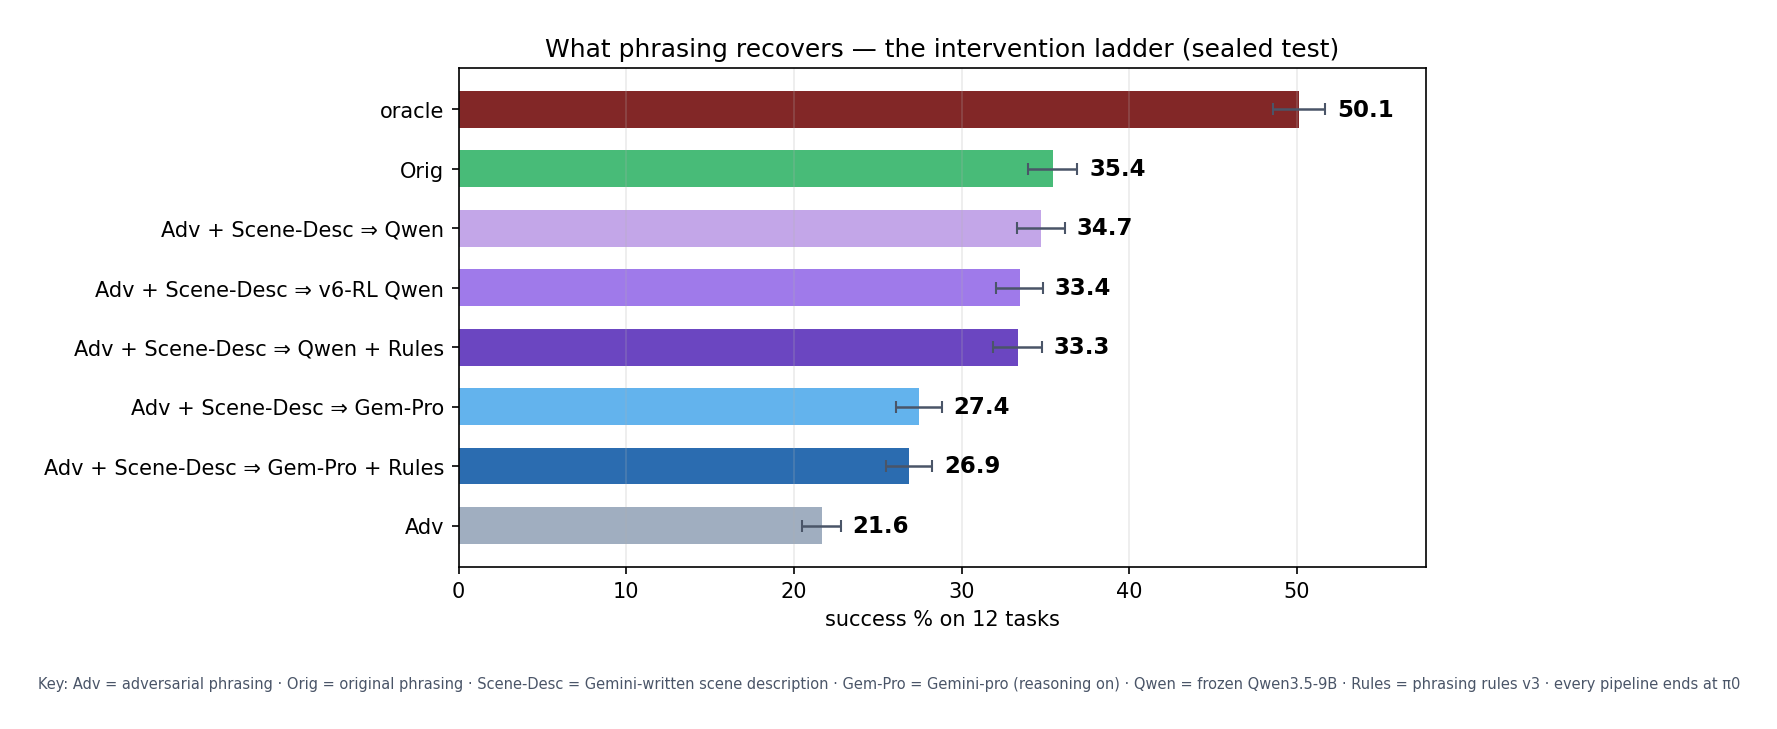
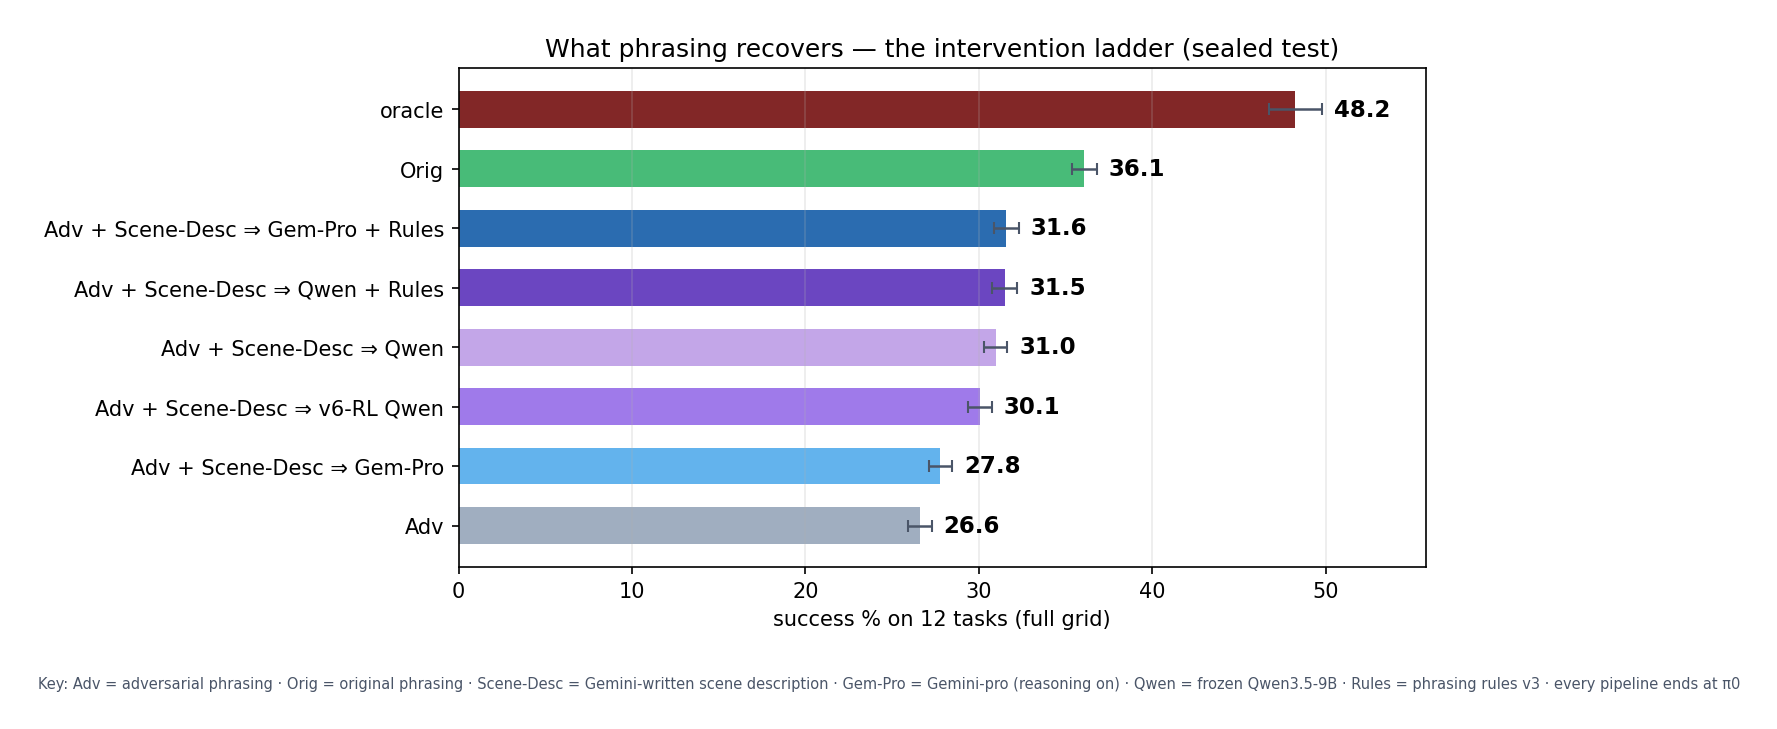
oracle full-grid 48.2 (prediction confirmed); determinism doctrine revised (within-pod exact, cross-pod drift); charts full-grid

diff --git a/scripts/make_phrasing_ladder.py b/scripts/make_phrasing_ladder.py
@@ -20,13 +20,15 @@ matplotlib.use("Agg")
 import matplotlib.pyplot as plt
 import pandas as pd
 
-HELD = set(range(18, 24))
+HELD = set(range(24))  # full grid — oracle now has a full-grid leg
 
+op = [f for f in glob.glob("results/sealed/*_x12.parquet") if "oracle_confirmed" in f]
 conf = sorted(glob.glob("results/search/sealedsearch_*_confirm_results.json"))
 tasks = [json.load(open(f))["task"] for f in conf]
-oracle = {json.load(open(f))["task"]:
+oracle = ({t: v for t, v in (pd.read_parquet(op[0]).groupby("task").success.mean() * 100).items()}
+          if op else {json.load(open(f))["task"]:
           max(json.load(open(f))["scoreboard"], key=lambda e: e["success_pct"])["success_pct"]
-          for f in conf}
+          for f in conf})
 
 legs = pd.concat([pd.read_parquet(f) for f in sorted(glob.glob("results/sealed/*_x12.parquet"))],
                  ignore_index=True)
@@ -75,7 +77,7 @@ for i, v in enumerate(vals):
 ax.set_yticks(list(y))
 ax.set_yticklabels([b[0] for b in BARS], fontsize=10)
 ax.invert_yaxis()
-ax.set_xlabel(f"success % on {len(tasks)} tasks")
+ax.set_xlabel(f"success % on {len(tasks)} tasks (full grid)")
 ax.set_title("What phrasing recovers — the intervention ladder (sealed test)")
 ax.grid(axis="x", alpha=0.25)
 ax.set_xlim(0, max(v + e for v, e in zip(vals, errs)) + 6)

diff --git a/scripts/make_sealed_scoreboard.py b/scripts/make_sealed_scoreboard.py
@@ -84,6 +84,8 @@ def main() -> None:
 
     ceiling = None
     conf = sorted(glob.glob("results/search/sealedsearch_*_confirm_results.json"))
+    if (d.arm == "oracle_confirmed").any():
+        conf = []  # full-grid oracle bar exists — no separate ceiling line
     if len(conf) >= 10:
         best = [max(e["success_pct"] for e in json.load(open(f))["scoreboard"]) for f in conf]
         ceiling = sum(best) / len(best)

diff --git a/EXPERIMENT.md b/EXPERIMENT.md
@@ -1851,3 +1851,18 @@ input, corpus-absence rename should be the ONLY active rule (conditional
 rewriting captures the +13..+17 rescues and skips the tax). Deployment
 verdict: unconditional rewriting of good input is not safe; input-aware
 gating is the path.
+
+## 2026-07-26 — Oracle full-grid leg lands: 48.2 (prediction 48-53 CONFIRMED)
+oracle_confirmed_x12: pooled 48.23 (in-vocab 50.3 / OOV 46.8). Held-out
+estimate was 50.1 — the two agree within ~1 sigma; honest summary "oracle ~ 49".
+Selection bias worry was overblown: full-grid came in BELOW held-out.
+DETERMINISM DOCTRINE REVISED: the 18-23 cross-check reproduced exactly on only
+5/12 tasks; deviations = 1-4 flipped episodes per 72 (max 5.6pp). Rollouts are
+exact WITHIN a pod (same GPU/driver); across pods there is a small machine-
+noise term (cuDNN/numeric drift flipping borderline trajectories). Cell-dedupe
+and comparator-extraction remain statistically valid (unbiased, ~independent)
+but are NOT byte-exact across pods. All prior cross-pod "exact" claims should
+be read as "exact within-pod, ±2-5pp across-pod at n=72".
+Ladder rebuilt full-grid: ordering now matches the main scoreboard (held-out
+slice anomalies were slice noise, as suspected). Charts: oracle bar replaces
+the dashed ceiling line.

diff --git a/PHRASE-SEARCH.md b/PHRASE-SEARCH.md
@@ -608,3 +608,8 @@ coke-plate suggestive +8.4, eggplant ceiling-null. Purification: 5 scenes
 done, 3 more boards queued (wheel, carrot-plate, eggplant). Cross-task
 certification (xcert: 6 edits × 8 tasks × n=144; xcert2: clause pairs ×
 8 tasks) rolling — uniform 24-layout numbers that supersede on overlap.*
+> **Determinism caveat (2026-07-26, sealed cross-check):** rollout determinism
+> holds exactly only when the same pod (GPU/driver) re-rolls a cell. Across
+> pods, 1-4 episodes per 72 flip (borderline trajectories under numeric drift).
+> Within-pod dedupe of repeated cells remains exact; cross-pod comparisons
+> carry a small machine-noise term on top of sampling noise.
